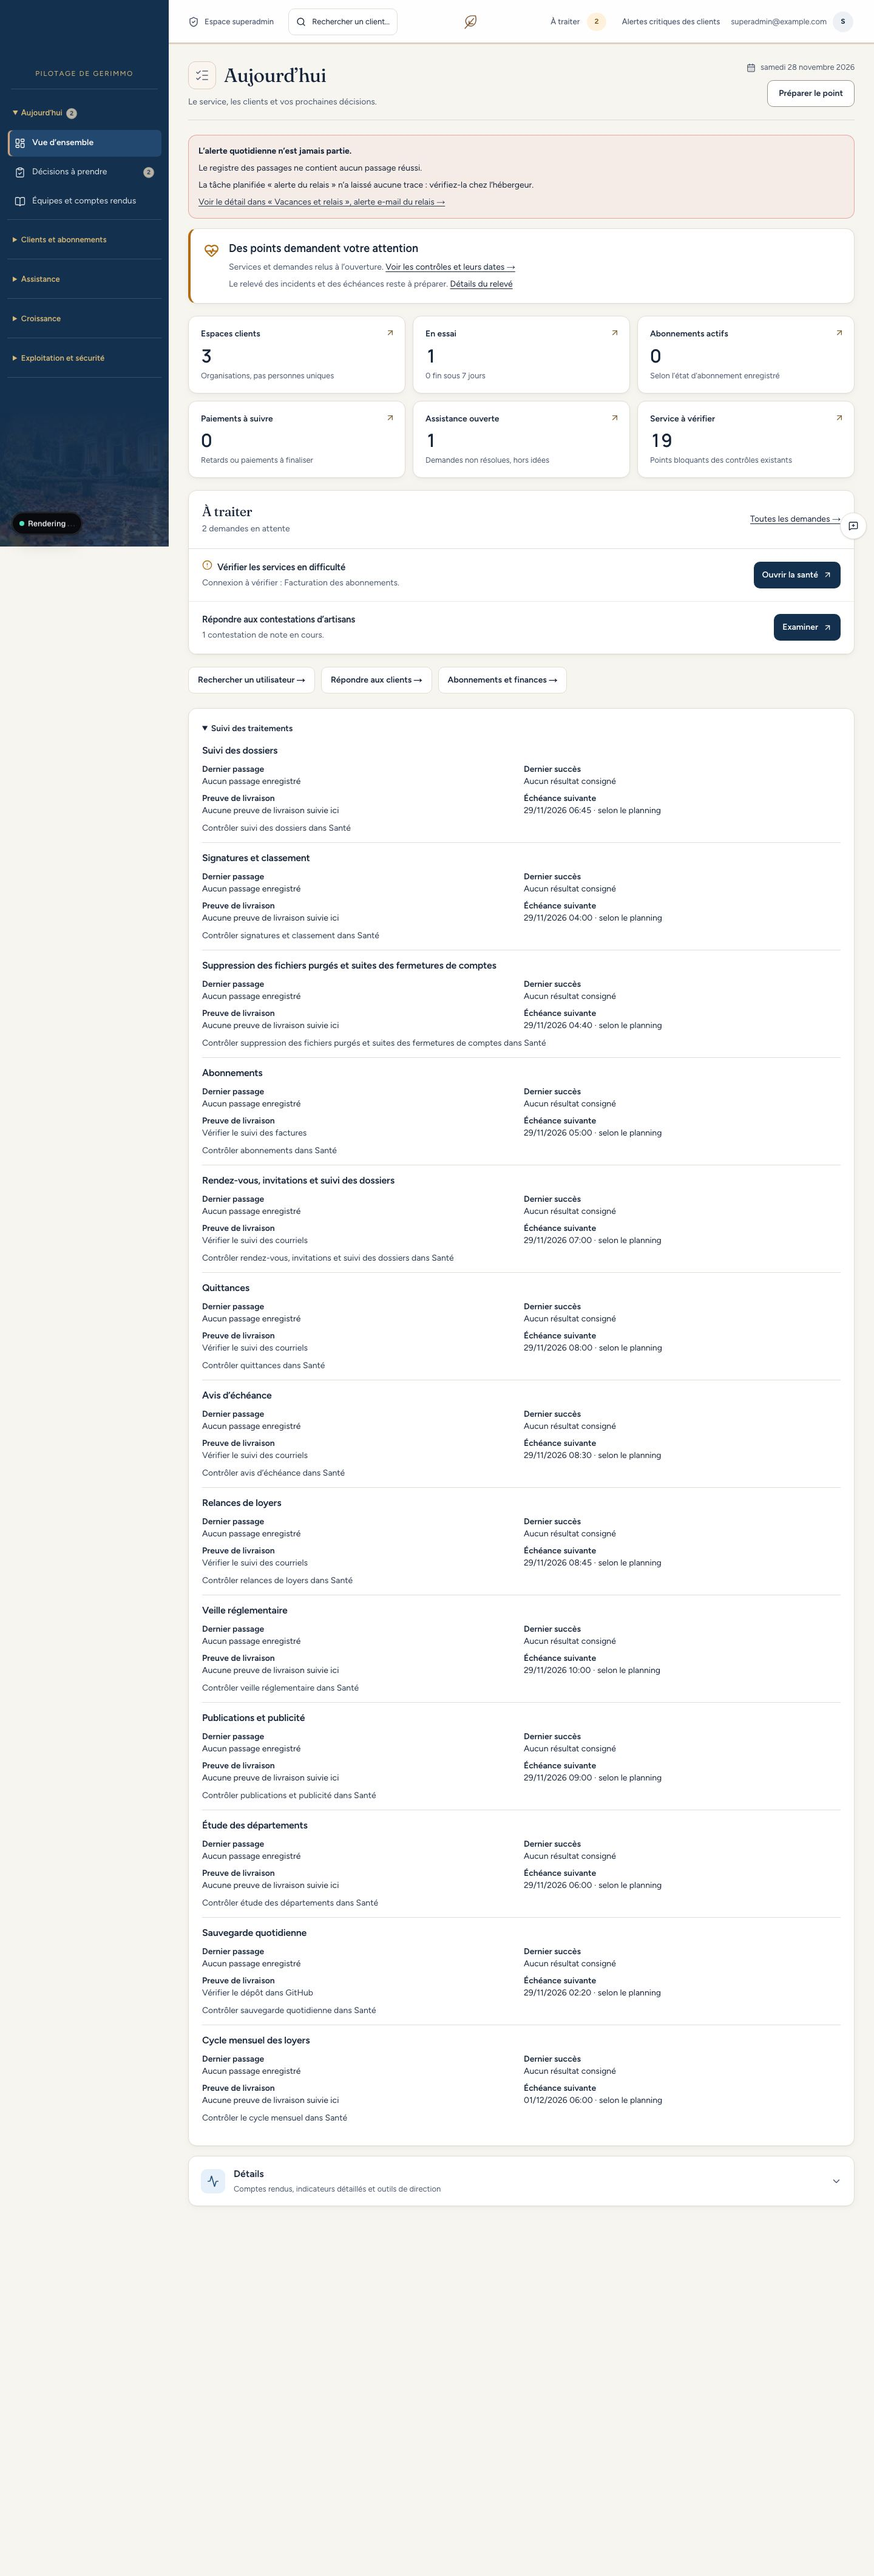
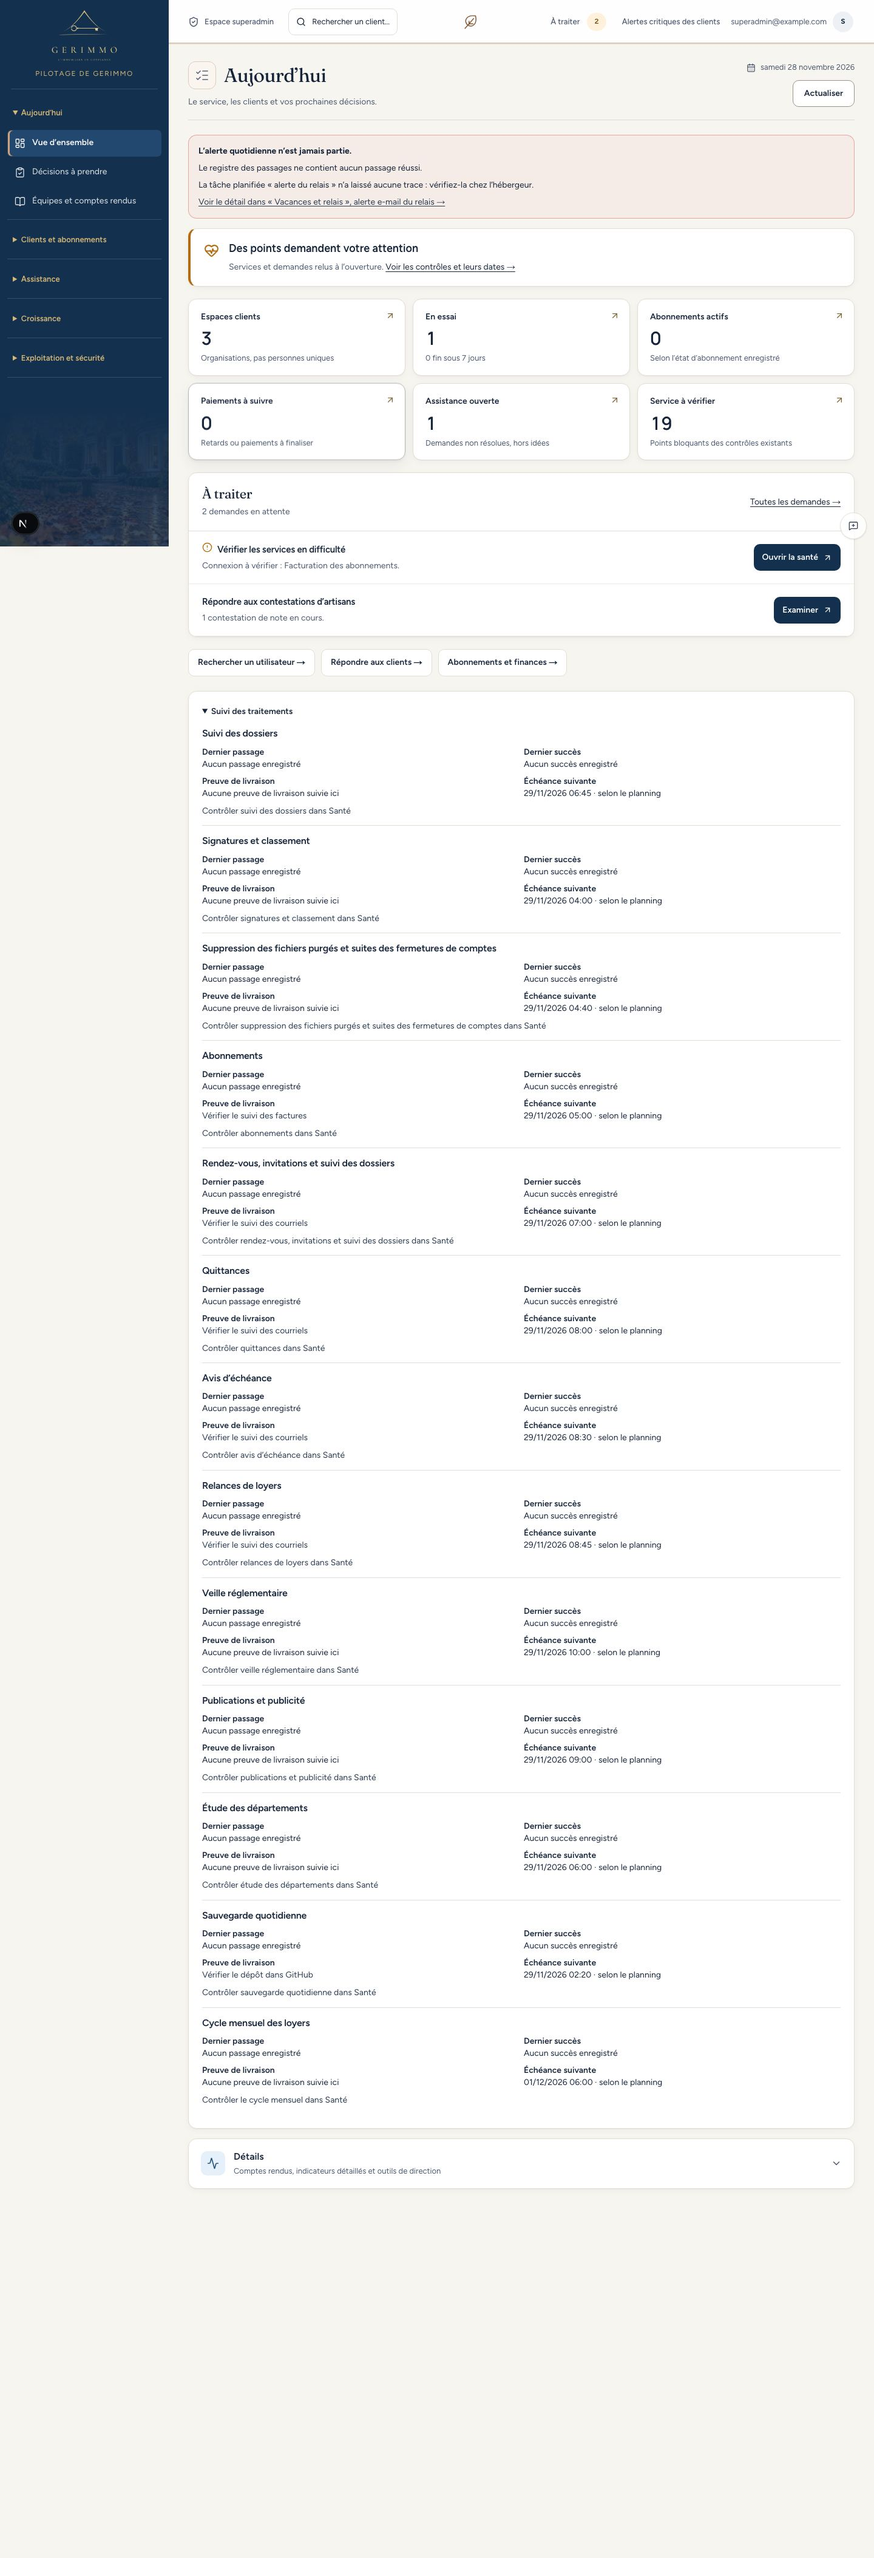
Distinguer un succès absent d’une recherche sans résultat

diff --git a/app/src/app/admin/sante/suivi-traitements.tsx b/app/src/app/admin/sante/suivi-traitements.tsx
@@ -54,9 +54,9 @@ export async function lireSuccesTraitements(db: Client) {
   })));
 }
 
-function dateLue(le: string | null | undefined) {
+function dateLue(le: string | undefined) {
   if (le === undefined) return "Lecture indisponible";
-  return le ? <time dateTime={le}>{formaterDateHeureParis(le)}</time> : "Aucun résultat consigné";
+  return <time dateTime={le}>{formaterDateHeureParis(le)}</time>;
 }
 
 export function ReperesTraitement({ traitement, succes, maintenant }: {
@@ -67,7 +67,7 @@ export function ReperesTraitement({ traitement, succes, maintenant }: {
   const echeance = echeanceTraitement(nom, maintenant);
   return <dl className="my-2 grid gap-2 text-sm sm:grid-cols-2">
     <div><dt className="font-semibold">Dernier passage</dt><dd>{passage ? <>{dateLue(passage)} · {bilan}</> : "Aucun passage enregistré"}</dd></div>
-    <div><dt className="font-semibold">Dernier succès</dt><dd>{dateLue(succes)}</dd></div>
+    <div><dt className="font-semibold">Dernier succès</dt><dd>{succes === null ? "Aucun succès enregistré" : dateLue(succes)}</dd></div>
     <div><dt className="font-semibold">Preuve de livraison</dt><dd>{
       COURRIELS.has(nom) ? <Link className="lien-discret" href="/admin/sante#traitements-durables">Vérifier le suivi des courriels</Link> :
         nom === "sauvegarde" ? <a className="lien-discret" href={SAUVEGARDE}>Vérifier le dépôt dans GitHub</a> :
